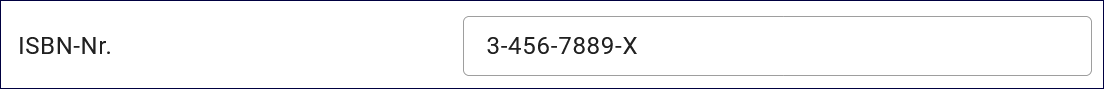
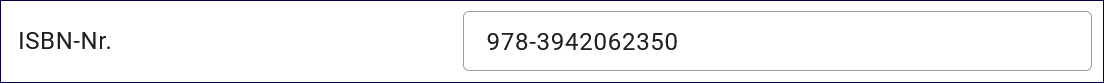
Aktualisierung

diff --git a/docs/ingrid-editor/erfassung/datensatztypen/datensatztyp-dokument.rst b/docs/ingrid-editor/erfassung/datensatztypen/datensatztyp-dokument.rst
@@ -134,7 +134,8 @@ Abb.: Eingabezeile - ISBN-Nr.
 
 Angabe der Identifikationsnummer der Literatur  (Internationale Standardbuchnummer - ISBN).
 
-Beispiel: 468-4-32632-238-7
+Beispiel: ISBN-10-Stellig: 3942062356 ISBN-13-Stellig: 978-3942062350
+
 
 
 Feld: Verlag
@@ -199,7 +200,7 @@ Feld: Weitere bibliographische Angaben
 
 Hier können bibliographische Angaben gemacht werden, für die kein explizites Feld vorgesehen ist. Dies können z.B. Angaben zu Abbildungen oder zum Format sein. Wichtig ist auch ein Hinweis, ob das Dokument in Papierform oder als Datendownload vorliegt.
 
-Beispiel: 60. Jahrgang | 2023 | Jahresheft
+Beispiel: 60. Jahrgang | 2023 | Jahresheft; Sprache: deutsch
 
 
 Feld: Erläuterungen
